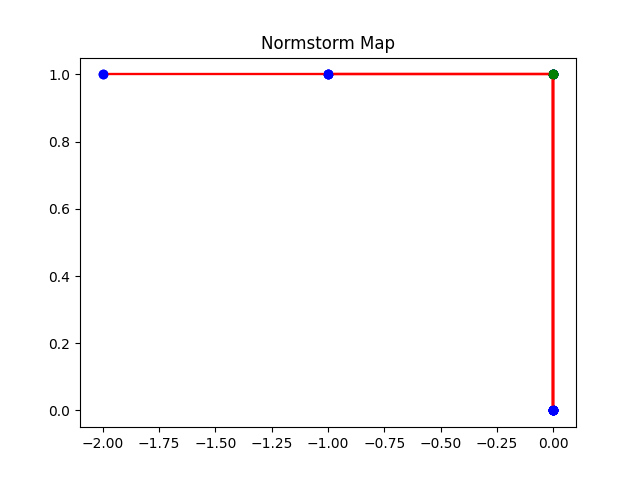
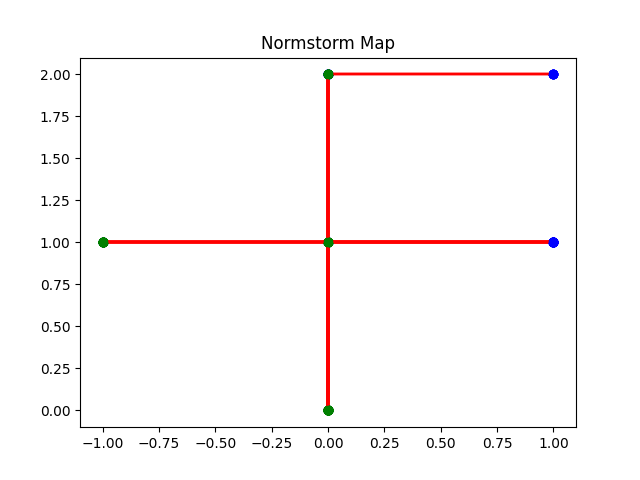
djik has some bad edge cases; tool shows blockages

diff --git a/behaviors.py b/behaviors.py
@@ -125,14 +125,19 @@ def auto_djik(driveSys, IRSensor, ultraSense, path, graph, location, heading, dj
         graph, location, heading, explored = auto_inters(driveSys, IRSensor, graph, heading, location, ultraSense)
         if explored and explorable:
             return (path, graph, location, heading)
-        
-    print("running dijk...")
+         
     #Otherwise, use Djikstra to find an efficient path to an unexplored location
+    print("Recalculating djik algorithm...")
     dest = pln.find_unexplored(graph, location)
     if dest == None:
         direc = pln.unx_dir(graph.get_intersection(location))
+        #if graph.get_intersection(location).check_blockage(direc):
+
+        print("DIREC1 " + str(direc))
         if direc == None:
             direc = unb_head(graph, location)
+            print("DIREC2 " + str(direc))
+
         while heading != direc:
             heading = explore_turn(driveSys, IRSensor, ultraSense, act.to_head(heading, direc, graph, location), graph, location, heading)
         return (path, graph, location, heading)
@@ -232,37 +237,30 @@ def master(flags, map_num=None):
                     print("Norman has no map to display >:(")
                 else:
                     tool.show()
-            
 
             if graph != None:
-                #print(graph.get_intersection((0,1)).get_blockages())
-
                 if graph.get_intersection(location).get_blockages()[heading] != const.BLK:
                     location, prev_loc, heading = act.adv_line_follow(driveSys, IRSensor, ultraSense, tool, location, heading, graph)
                     act.pullup(driveSys)
+                    explorable = True
                 else:
-                    print("Robot Status: Heading " + str(heading) + " at Location " + str(location))
-                    # print(graph.get_intersection(location).get_blockages())
-                    print("FACING BLOCKAGE")
-                    explorable = False
+                    #print("Robot Status: Heading " + str(heading) + " at Location " + str(location))
+                    #explorable = False
                     path = []
-                    djik.reset(djik.get_goal())
+                    #pass
             else:
                 location, prev_loc, heading = act.adv_line_follow(driveSys, IRSensor, ultraSense, tool, location, heading, graph)
+                graph, tool, djik = pln.init_plan(location, heading)
+                print("Normstorm Navigation Enabled")
+                act.find_blocked_streets(ultraSense, location, heading, graph)
                 act.pullup(driveSys)
-            
+                explorable = True
             
             act.find_blocked_streets(ultraSense, location, heading, graph)
-            if graph != None:
-                print(graph.get_intersection((0,1)).get_blockages())
-
-            if graph == None:
-                graph, tool, djik = pln.init_plan(location, heading)
-            else:
-                graph.driven_connection(prev_loc, location, heading)
-                # we can assume no 45 degree roads exist upon approaching intersection
-                graph.no_connection(location, (heading + 3) % 8)
-                graph.no_connection(location, (heading + 5) % 8)
+            graph.driven_connection(prev_loc, location, heading)
+            # we can assume no 45 degree roads exist upon approaching intersection
+            graph.no_connection(location, (heading + 3) % 8)
+            graph.no_connection(location, (heading + 5) % 8)
             check_end(IRSensor, graph, location, heading)
 
             if flags[2]:
@@ -276,7 +274,11 @@ def master(flags, map_num=None):
                 path, heading, graph, location = manual_djik(driveSys, IRSensor, path, heading, graph, location, djik, flags[8], flags)
                 continue
             if flags[0]:
-                path, graph, location, heading = auto_djik(driveSys, IRSensor, ultraSense, path, graph, location, heading, djik, prev_loc, explorable)
+                if graph.is_complete():
+                    print("Map Fully Explored!")
+                    flags = [True, False, True, False, False, False, False, False] # pause
+                else:
+                    path, graph, location, heading = auto_djik(driveSys, IRSensor, ultraSense, path, graph, location, heading, djik, prev_loc, explorable)
                 continue
         print("Shutting down")
         ultraSense.shutdown()

diff --git a/mapping/planning.py b/mapping/planning.py
@@ -8,7 +8,7 @@ Date: 5/8/23
 
 from mapping.MapGraph import MapGraph
 from queue import PriorityQueue
-from constants import heading_map, invert_h_map, UND, BLK
+from constants import heading_map, invert_h_map, UND, BLK, UNB
 from mapping.graphics import Visualizer
 import pickle
 
@@ -87,6 +87,8 @@ class Djikstra:
 def find_unexplored(graph, curr):
     """Uses a DFS to find a nearby intersection with unexplored headings, so 
     that Djikstra may then compute a path to that intersection for exploration
+
+    Update: also makes sure intersection returned is not blocked off
     
     Arguments: graph: a MapGraph object to search over 
                curr: the current location of the bot in the graph
@@ -94,16 +96,29 @@ def find_unexplored(graph, curr):
     if curr == None:
         return None
     inters = graph.get_intersection(curr)
+    if inters == None:
+        print("NONE intersection")
+    else:
+        print(inters.get_blockages())
     nexts = graph.neighbors(inters)
     if len(nexts) != 0:
         for chile in graph.neighbors(inters):
-            print((chile.get_location()))
+            #print((chile.get_location()))
             if not chile.is_explored():
-                return chile.location
+                loc2 = inters.get_location()
+                loc1 = chile.get_location()
+                relative_loc = (loc2[0] - loc1[0], loc2[1] - loc1[1])
+                heading = invert_h_map[relative_loc]
+                print(chile.get_blockages())
+                print(chile.check_blockage(heading))
+                if chile.check_blockage(heading) == UNB:
+                    print("next target " + str(chile.location))
+                    return chile.location
             nxt = find_unexplored(graph, chile)
             if nxt != None and nxt != curr:
                 return nxt
     else:
+        print("no target found")
         return None
     
 
@@ -137,6 +152,6 @@ def init_plan(location, heading):
 def unx_dir(inter):
     """Returns a heading which needs to be explored for a given intersection"""
     for i in range(len(inter.get_streets())):
-        if inter.check_connection(i) == UND and inter.check_blockage != BLK:
+        if inter.check_connection(i) == UND and inter.check_blockage(i) != BLK:
             return i
     return None

diff --git a/mapping/graphics.py b/mapping/graphics.py
@@ -8,7 +8,7 @@ Date: 5/2
 """
 
 import matplotlib.pyplot as plt
-from constants import heading_map
+from constants import heading_map, BLK, invert_h_map
 
 class Visualizer:
     """
@@ -43,13 +43,24 @@ class Visualizer:
         """
         x_edges = []
         y_edges = []
+        blockages = []
         for intersection in self.graph:
             start = intersection.get_location()
             for conn in self.graph.get_graph()[intersection]:
                 conn_loc = conn.get_location()
                 x_edges.append([start[0], conn_loc[0]])
                 y_edges.append([start[1], conn_loc[1]])
-        return (x_edges, y_edges)
+                inters1 = self.graph.get_intersection((start[0], start[1]))
+                inters2 = self.graph.get_intersection((conn_loc[0], conn_loc[1]))
+                loc2 = inters1.get_location()
+                loc1 = inters2.get_location()
+                relative_loc = (loc2[0] - loc1[0], loc2[1] - loc1[1])
+                heading = invert_h_map[relative_loc]
+                if inters2.check_blockage(heading) == BLK:
+                    blockages.append(True)
+                else:
+                    blockages.append(False)
+        return (x_edges, y_edges, blockages)
 
     def show(self):
         """
@@ -59,9 +70,12 @@ class Visualizer:
         with all others shown in blue.
         """
         x, y, inter_exp = self.find_intersections()
-        x_edges, y_edges = self.find_edges()
+        x_edges, y_edges, blockages = self.find_edges()
         for i in range(len(x_edges)):
-            plt.plot(x_edges[i], y_edges[i], 'r')
+            if blockages[i]:
+                plt.plot(x_edges[i], y_edges[i], 'y')
+            else:
+                plt.plot(x_edges[i], y_edges[i], 'r')
         for i in range(len(x)):
             if inter_exp[i]:
                 plt.plot(x[i], y[i], 'go')

diff --git a/driving/actions.py b/driving/actions.py
@@ -222,9 +222,9 @@ def find_blocked_streets(ultraSense, location, heading, graph):
     time.sleep(1) # der der der
 
     # allowable distance until object blocks a street
-    threshold = 0.6
+    threshold = 0.5
     if heading % 2 != 0:
-        threshold = 0.8
+        threshold = 0.7
 
     next_location = (location[0] + const.heading_map[heading][0],
                      location[1] + const.heading_map[heading][1])
@@ -269,7 +269,4 @@ def find_blocked_streets(ultraSense, location, heading, graph):
                         next_location = (location[0] + const.heading_map[(heading-2)%8][0],
                                          location[1] + const.heading_map[(heading-2)%8][1])
                         graph.block_connection(location, next_location, (heading-2)%8)
-
-                print("after @ " + str(location))
-                print(graph.get_intersection(location).get_blockages())
 

diff --git a/mapping/MapGraph.py b/mapping/MapGraph.py
@@ -252,7 +252,9 @@ class MapGraph:
         """
         for intersection in self.graph:
             if not intersection.is_explored():
-                return False
+                # make an exception to origin (0,0) if its heading 0 is blocked
+                if not intersection.location == (0, 0) or intersection.check_blockage(0) != BLK:
+                    return False
         return len(self.graph) != 0 
 
     def get_intersection(self, location):

diff --git a/ui.py b/ui.py
@@ -129,6 +129,7 @@ def ui_cmp():
                                  target=master,
                                  args=[flags, map_num])
         robot_thread.start()
+        print("WARNING: norman is feeling extra naughty (ง ͠° ͟ʖ ͡°)ง")
         while True:
             temp = cmp_input()
             for i in range(len(flags)):
